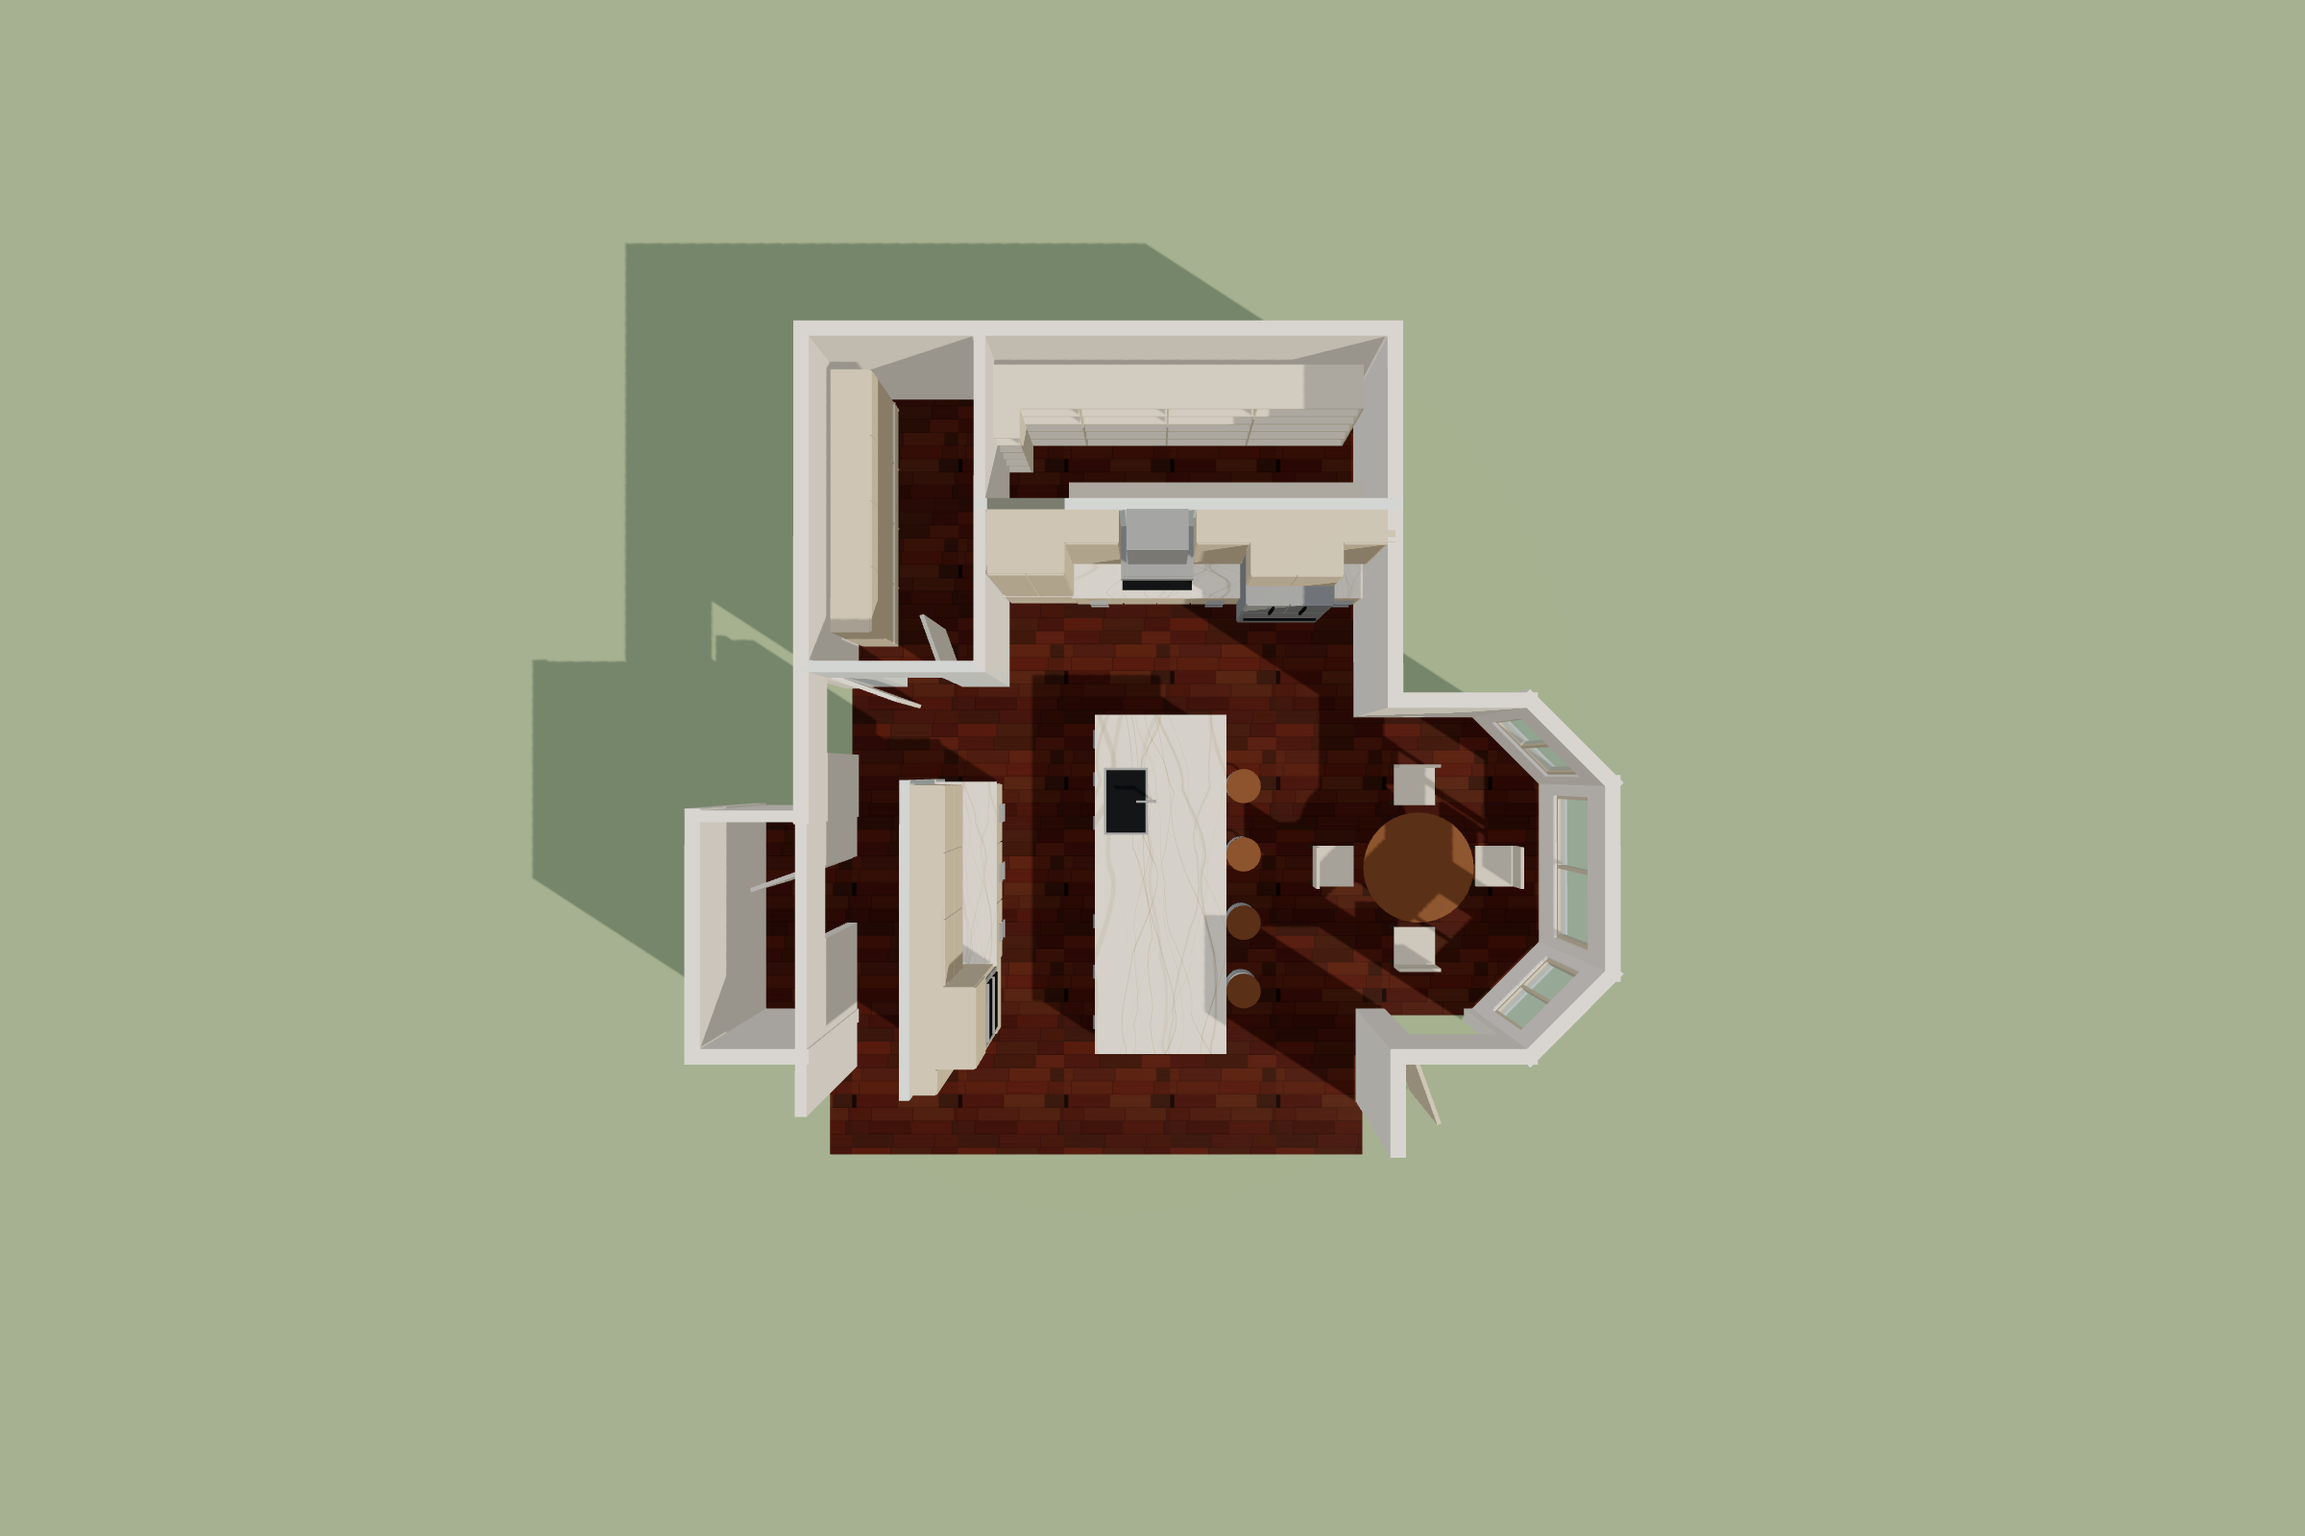
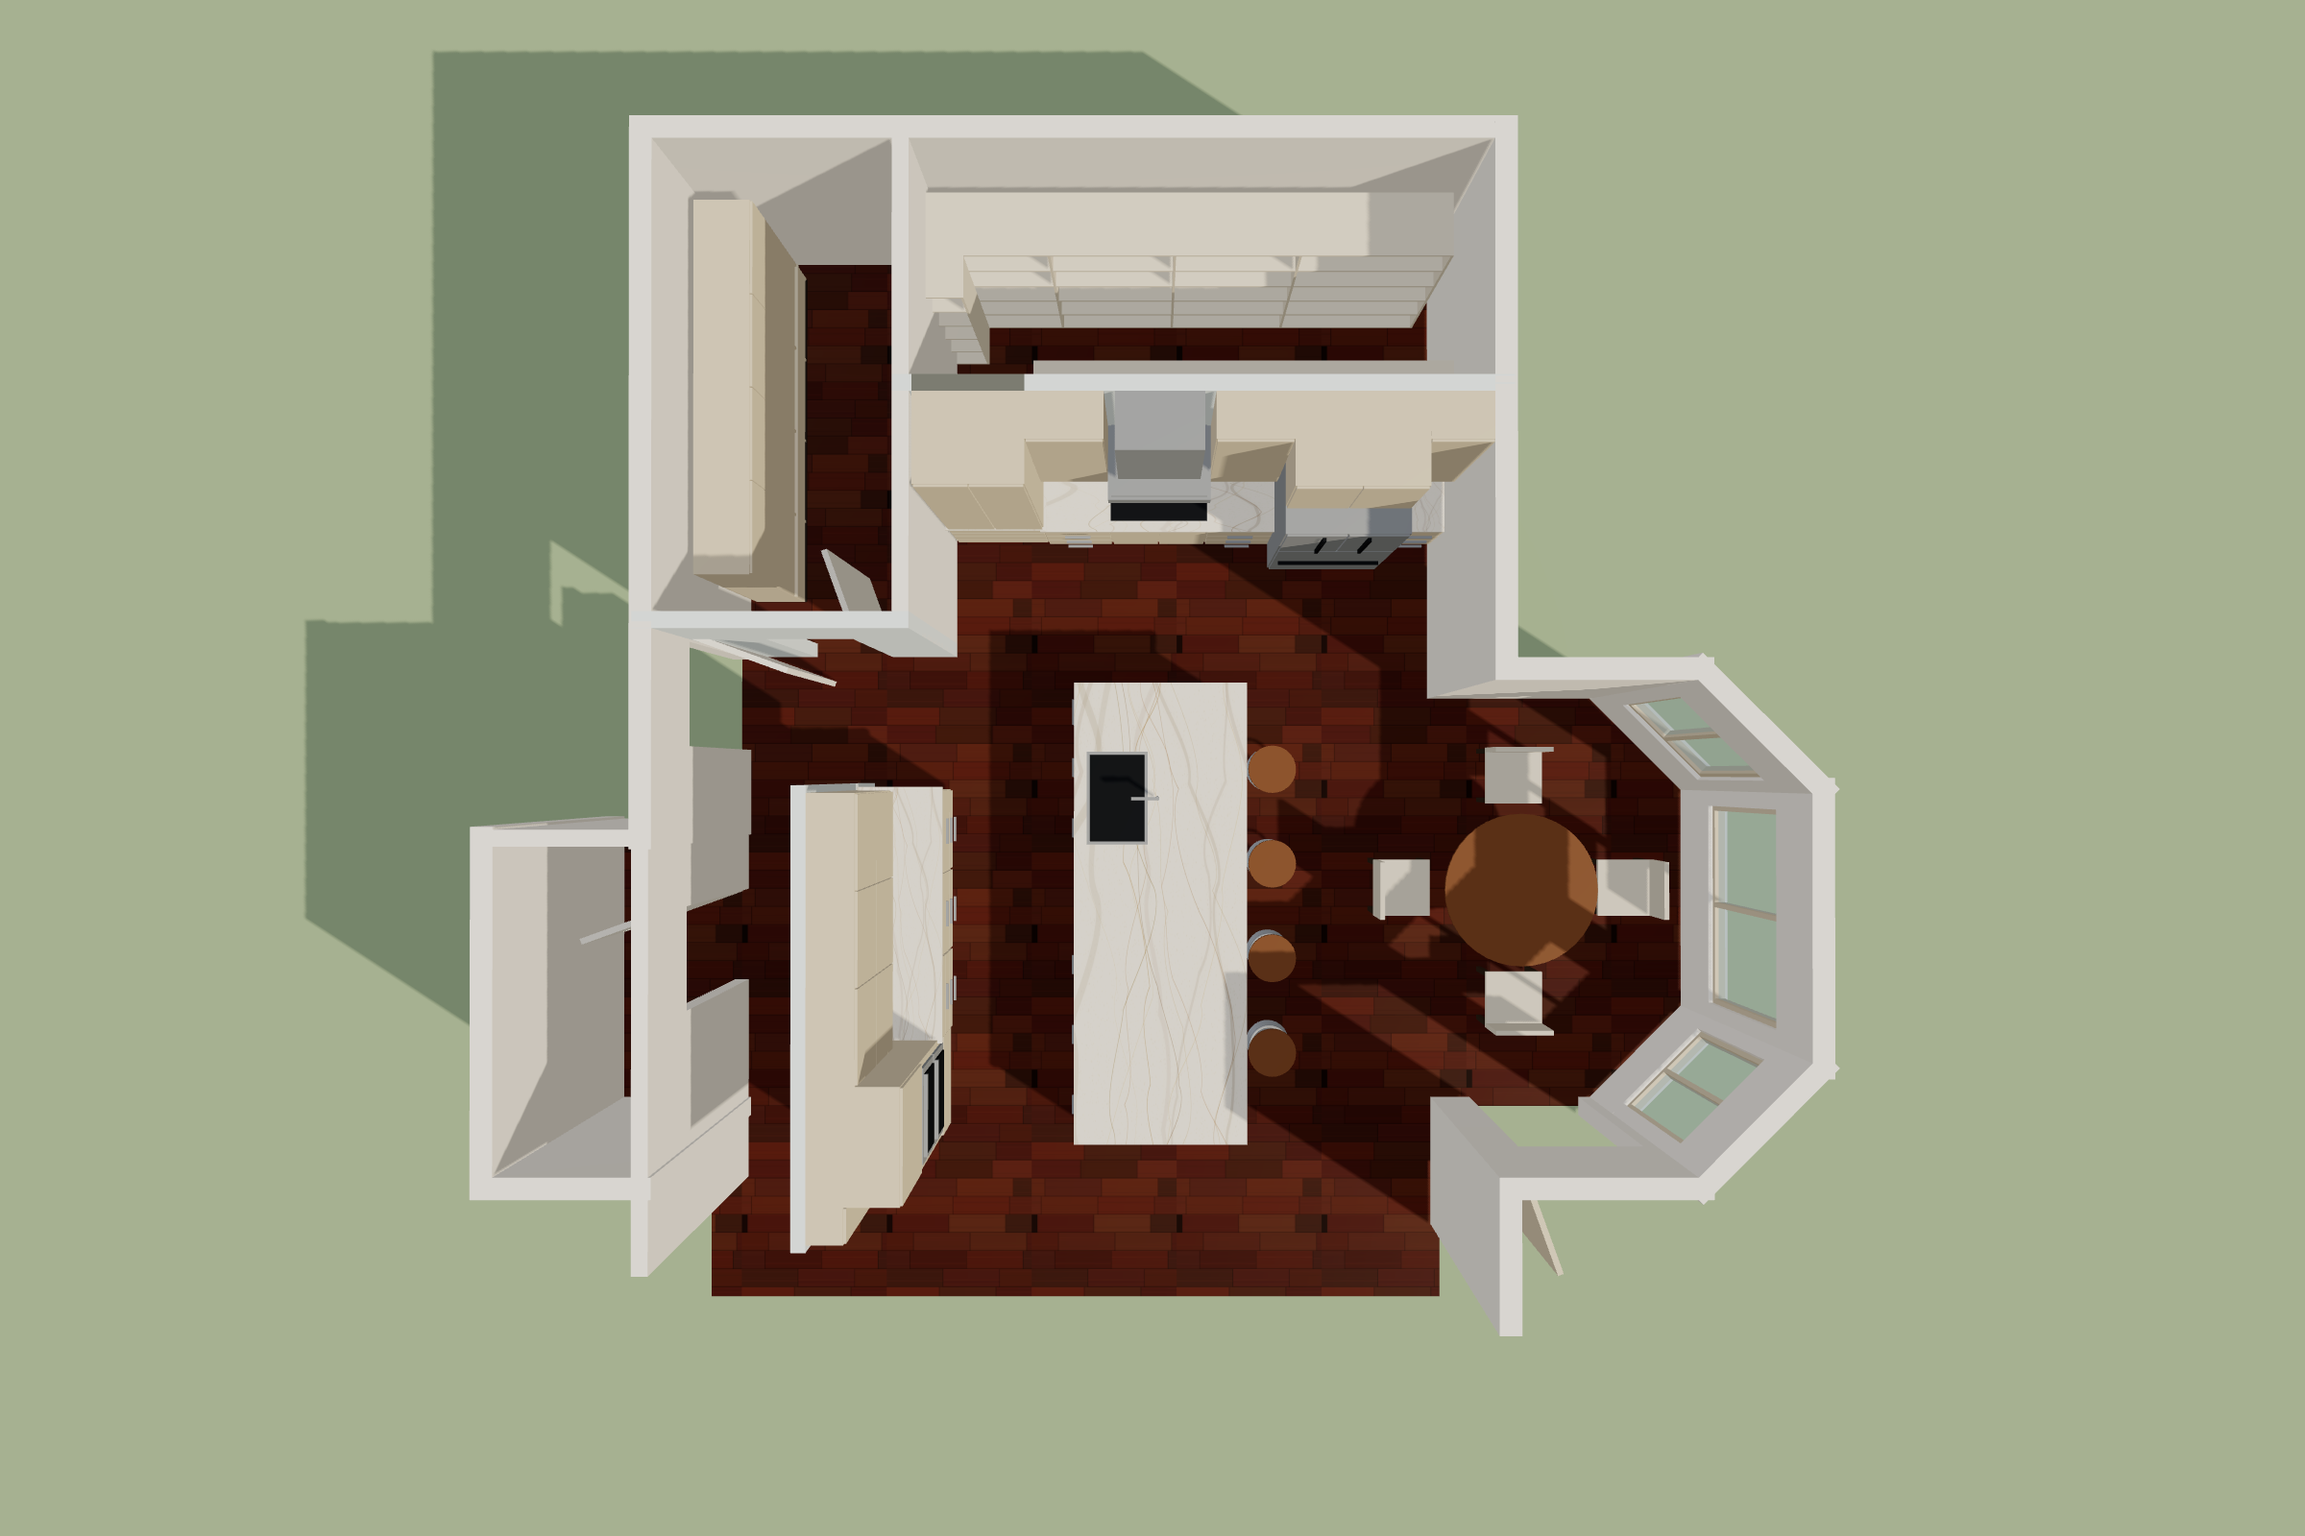
Add Measurements toggle with dimension lines; true up aisles to plan (48/43.5/40)

diff --git a/index.html b/index.html
@@ -37,6 +37,7 @@ button.on{background:var(--accent);color:#fff;border-color:var(--accent)}
   <button data-v="pantry">Inside pantry</button>
   <button data-v="plan">Plan view</button>
   <button id="lbl" class="on">Labels</button>
+  <button id="dim">Measurements</button>
 </div>
 <div class="foot">Modeled in inches from the Revision 23 plan. Dark cherry floors, quartzite counters, stainless appliances, light natural cabinets, full-height stainless vent. Bay windows, door swings and cabinet door splits are assumptions; dimensions still need field verification.</div>
 
@@ -212,7 +213,7 @@ wall(-42,189,0,189,T);              // bath north
 wall(-42,189,-42,282,TX);           // bath west exterior
 wall(-42,282,0,282,TX);             // bath south
 wallDoor(0,189,0,303,T,H,21,51);    // bath east with door z 210..240
-wall(40,177,40,297,4,H,M.wallNew);  // floating wall, 10' long, full height, open both ends
+wall(42,177,42,297,4,H,M.wallNew);  // floating wall, 10' long, full height, open both ends (40" hall to its west)
 
 // doors (leaf hinged at hx,hz; dir = open-leaf direction in plan)
 door(50,131,25,[-0.34,-0.94]);          // mudroom door, swings into mudroom
@@ -256,32 +257,34 @@ box(185,186,52,80,104.1,105.2,M.dark); box(198,199,52,80,104.1,105.2,M.dark); bo
 box(174,210,84,120,70,95.5,M.white); fronts(174,210,70,95.5,84,120,'S',2,1,M.white);
 
 // ---------- floating wall, east face: 78" counter + uppers, 32" oven tower, 10" end filler ----------
-baseRun(42,67.5,177,255,M.teal);
-fronts(42,67.5,177,203,4,34.5,'E',1,3,M.teal); fronts(42,67.5,203,229,4,34.5,'E',1,3,M.teal); fronts(42,67.5,229,255,4,34.5,'E',1,3,M.teal);
-[190,216,242].forEach(z=>[8,19,30].forEach(y=>handle(68.25,y,z,'E',8)));
-box(42,42.6,36,54,177,255,M.quartz);
-box(42,55,54,120,177,255,M.white); fronts(42,55,177,255,54,120,'E',3,2,M.white);
-box(42,67,0,120,255,287,M.teal); box(42,67,0,4,255,287,M.kick);
-fronts(42,67,255,287,4,26,'E',1,1,M.teal);
-box(67,67.75,27,51,257,285,M.steel); box(67.75,68.3,29,49,259,283,M.dark); box(67.75,68.9,48.5,49.7,259,283,M.steel);   // upper oven + handle
-box(67,67.75,53,77,257,285,M.steel); box(67.75,68.3,55,75,259,283,M.dark); box(67.75,68.9,74.5,75.7,259,283,M.steel);   // lower oven + handle
-fronts(42,67,255,287,79,120,'E',1,1,M.teal);
-box(42,52,0,120,287,297,M.teal); fronts(42,52,287,297,4,120,'E',1,1,M.teal);
+baseRun(44,69.5,177,255,M.teal);
+fronts(44,69.5,177,203,4,34.5,'E',1,3,M.teal); fronts(44,69.5,203,229,4,34.5,'E',1,3,M.teal); fronts(44,69.5,229,255,4,34.5,'E',1,3,M.teal);
+[190,216,242].forEach(z=>[8,19,30].forEach(y=>handle(70.25,y,z,'E',8)));
+box(44,44.6,36,54,177,255,M.quartz);
+box(44,57,54,120,177,255,M.white); fronts(44,57,177,255,54,120,'E',3,2,M.white);
+box(44,69,0,120,255,287,M.teal); box(44,69,0,4,255,287,M.kick);
+fronts(44,69,255,287,4,26,'E',1,1,M.teal);
+box(69,69.75,27,51,257,285,M.steel); box(69.75,70.3,29,49,259,283,M.dark); box(69.75,70.9,48.5,49.7,259,283,M.steel);   // upper oven + handle
+box(69,69.75,53,77,257,285,M.steel); box(69.75,70.3,55,75,259,283,M.dark); box(69.75,70.9,74.5,75.7,259,283,M.steel);   // lower oven + handle
+fronts(44,69,255,287,79,120,'E',1,1,M.teal);
+box(44,54,0,120,287,297,M.teal); fronts(44,54,287,297,4,120,'E',1,1,M.teal);
 
 // ---------- island 54" x 144" ----------
-// carcass is 44" deep so the 54" top overhangs 11.5" on the east (table) side for seating
-box(115.5,153.5,0,4,151.5,289.5,M.kick);
-box(112.5,156.5,4,34.5,148.5,292.5,M.teal);
-box(111,168,34.5,36,147,294,M.quartz);
-box(156.5,157,4,34.5,148.5,292.5,M.teal);   // finished back panel
-fronts(112.5,136.5,148.5,166.5,4,34.5,'W',1,3,M.teal);      // 18" drawers
-fronts(112.5,136.5,166.5,202.5,4,34.5,'W',2,1,M.teal);      // 36" sink base
-box(111.75,112.5,6,32.5,203,226,M.steel); box(111.1,111.75,30,32,204,225,M.dark); box(111.1,111.6,8,9.2,206,223,M.steel); // 24" stainless DW + bar handle
-fronts(112.5,136.5,226.5,292.5,4,34.5,'W',3,1,M.teal);      // 66" storage
-[[157.5,8],[157.5,19],[157.5,30]].forEach(([z,y])=>handle(111.75,y,z,'W',8));
-[175,194,237,259,281].forEach(z=>handle(111.75,30,z,'W',6));
-box(115,134,35.4,36.3,170,199,M.steel); box(116,133,35.6,36.5,171,198,M.dark);   // sink
-cyl(0.6,36,48,137,184.5,M.steel); box(129,137.5,47.4,48.6,184,185,M.steel);     // faucet
+// island west face at x=113 (43.5" aisle to the oven-wall counter), north end at z=143.5 (48" aisle to the cooktop counter)
+// carcass is 42" deep so the 54" top overhangs 10.5" on the east (table) side for seating
+const IX=113, IZ=143.5;
+box(IX+3,IX+39,0,4,IZ+3,IZ+141,M.kick);
+box(IX,IX+42,4,34.5,IZ,IZ+144,M.teal);
+box(IX-1.5,IX+52.5,34.5,36,IZ,IZ+144,M.quartz);   // 54" x 144" top
+box(IX+42,IX+42.5,4,34.5,IZ,IZ+144,M.teal);   // finished back panel
+fronts(IX,IX+24,IZ,IZ+18,4,34.5,'W',1,3,M.teal);        // 18" drawers
+fronts(IX,IX+24,IZ+18,IZ+54,4,34.5,'W',2,1,M.teal);     // 36" sink base
+box(IX-0.75,IX,6,32.5,IZ+54.5,IZ+77.5,M.steel); box(IX-1.4,IX-0.75,30,32,IZ+55.5,IZ+76.5,M.dark); box(IX-1.4,IX-0.9,8,9.2,IZ+57.5,IZ+74.5,M.steel); // 24" stainless DW + bar handle
+fronts(IX,IX+24,IZ+78,IZ+144,4,34.5,'W',3,1,M.teal);    // 66" storage
+[8,19,30].forEach(y=>handle(IX-0.75,y,IZ+9,'W',8));
+[IZ+26.5,IZ+45.5,IZ+88.5,IZ+110.5,IZ+132.5].forEach(z=>handle(IX-0.75,30,z,'W',6));
+box(IX+2.5,IX+21.5,35.4,36.3,IZ+21.5,IZ+50.5,M.steel); box(IX+3.5,IX+20.5,35.6,36.5,IZ+22.5,IZ+49.5,M.dark);   // sink
+cyl(0.6,36,48,IX+24.5,IZ+36,M.steel); box(IX+16.5,IX+25,47.4,48.6,IZ+35.5,IZ+36.5,M.steel);     // faucet
 
 // ---------- bar stools on the island's east (table) side, counter height ----------
 function stool(cx,cz){
@@ -290,10 +293,10 @@ function stool(cx,cz){
   cyl(7,0,1.5,cx,cz,M.steel,5.5);                   // base
   const ring=new THREE.Mesh(new THREE.TorusGeometry(6,0.5,10,36),M.steel); ring.rotation.x=Math.PI/2; ring.position.set(cx,8,cz); ring.castShadow=true; scene.add(ring);
 }
-[178,208,238,268].forEach(z=>stool(176,z));
+[IZ+27,IZ+57,IZ+87,IZ+117].forEach(z=>stool(IX+61,z));
 
 // ---------- table 48" round, 4 chairs ----------
-const TC=[252,213.5];
+const TC=[252,IZ+72-7];   // table center 7" north of island center, per plan
 cyl(24,29.5,31,TC[0],TC[1],M.tableTop); cyl(3,1,29.5,TC[0],TC[1],M.chairLeg); cyl(12,0,1.2,TC[0],TC[1],M.chairLeg,8);
 function chair(cx,cz,a){
   const g=new THREE.Group(); g.position.set(cx,0,cz); g.rotation.y=a; scene.add(g);
@@ -306,19 +309,48 @@ chair(TC[0],TC[1]-36,0); chair(TC[0],TC[1]+36,Math.PI); chair(TC[0]+36,TC[1],-Ma
 
 // ---------- labels ----------
 const labels=new THREE.Group(); scene.add(labels);
-function label(text,x,y,z,s=1){
+const dims=new THREE.Group(); dims.visible=false; scene.add(dims);
+function label(text,x,y,z,s=1,group=labels,bg='rgba(36,52,65,.86)'){
   const c=document.createElement('canvas'); const ctx=c.getContext('2d');
   ctx.font='600 40px -apple-system,Helvetica,Arial,sans-serif'; const w=Math.ceil(ctx.measureText(text).width)+44; c.width=w; c.height=68;
-  ctx.font='600 40px -apple-system,Helvetica,Arial,sans-serif'; ctx.fillStyle='rgba(36,52,65,.86)';
+  ctx.font='600 40px -apple-system,Helvetica,Arial,sans-serif'; ctx.fillStyle=bg;
   ctx.beginPath(); ctx.roundRect(0,0,w,68,34); ctx.fill(); ctx.fillStyle='#fff'; ctx.textBaseline='middle'; ctx.fillText(text,22,36);
   const tex=new THREE.CanvasTexture(c); tex.colorSpace=THREE.SRGBColorSpace;
   const sp=new THREE.Sprite(new THREE.SpriteMaterial({map:tex,depthTest:false,transparent:true,sizeAttenuation:false})); sp.renderOrder=999;
-  sp.userData.base=[w/68*0.052*s,0.052*s]; sp.position.set(x,y,z); labels.add(sp);
+  sp.userData.base=[w/68*0.052*s,0.052*s]; sp.position.set(x,y,z); group.add(sp);
 }
-function fitLabels(){ labels.children.forEach(sp=>{const [bw,bh]=sp.userData.base; sp.scale.set(bw/camera.aspect,bh,1);}); }
+function fitLabels(){ [...labels.children,...dims.children].forEach(sp=>{ if(!sp.userData.base) return; const [bw,bh]=sp.userData.base; sp.scale.set(bw/camera.aspect,bh,1);}); }
+
+// ---------- measurements: dimension lines with end ticks, text computed from the model ----------
+const M_dim=new THREE.MeshBasicMaterial({color:0xc0392b});
+function fmt(n){ n=Math.round(n*2)/2; const s=(n%1?n.toFixed(1):n)+'″'; return n>=48? `${s} (${Math.floor(n/12)}′${n%12?(n%12)+'″':''})` : s; }
+function dim(x0,z0,x1,z1,y,note){
+  const dx=x1-x0, dz=z1-z0, L=Math.hypot(dx,dz);
+  const g=new THREE.Group(); g.position.set(x0,y,z0); g.rotation.y=Math.atan2(-dz,dx); dims.add(g);
+  const bar=new THREE.Mesh(new THREE.BoxGeometry(L,0.7,0.7),M_dim); bar.position.x=L/2; g.add(bar);
+  for(const u of [0,L]){ const t=new THREE.Mesh(new THREE.BoxGeometry(0.7,0.7,8),M_dim); t.position.set(u,0,0); g.add(t);
+    const v=new THREE.Mesh(new THREE.BoxGeometry(0.7,8,0.7),M_dim); v.position.set(u,0,0); g.add(v); }
+  label((note?note+': ':'')+fmt(L),(x0+x1)/2,y+4,(z0+z1)/2,0.72,dims,'rgba(192,57,43,.9)');
+}
+// walkways (measured face to face in the model)
+dim(122,95.5,122,IZ,40,'Counter aisle');                 // cooktop counter front to island
+dim(69.5,196,IX,196,40,'Oven-wall aisle');               // oven-wall counter front to island
+dim(0,165,40,165,40,'Hall');                             // hall width west of floating wall
+dim(IX+52.5,TC[1],TC[0]-24,TC[1],40,'Island to table');  // island top edge to table edge
+dim(TC[0]+24,TC[1],314,TC[1],40,'Table to bay wall');    // table edge to bay window wall
+dim(192,103.5,192,IZ,40,'Fridge to island');             // fridge door face to island
+dim(IX+52.5,160,230,160,40,'Island to east wall');       // island top edge to exterior wall
+// fixtures
+dim(IX-1.5,IZ-16,IX+52.5,IZ-16,40,'Island');
+dim(IX-8,IZ,IX-8,IZ+144,40);
+dim(42,177,42,297,124,'Floating wall');
+dim(TC[0]-24,TC[1]-30,TC[0]+24,TC[1]-30,32,'Table');
+dim(40,318,230,318,2,'Open to family room');
+dim(0,100,68,100,124,'Mudroom');
+dim(-42,235,0,235,40,'Bath');
 label('MUDROOM',34,100,70); label('PANTRY 13′6″ × 5′6″',150,100,40); label('BATH',-21,100,235); label('HALL',20,100,160);
-label('ISLAND 54″ × 144″',139,48,222); label('FLOATING WALL 10′',40,128,237); label('DOUBLE OVENS',70,100,271);
-label('36″ FRIDGE',192,96,92); label('30″ COOKTOP',138,80,86); label('48″ ROUND',252,44,213.5); label('BAY',298,100,213);
+label('ISLAND 54″ × 144″',IX+27,48,IZ+72); label('FLOATING WALL 10′',42,128,237); label('DOUBLE OVENS',72,100,271);
+label('36″ FRIDGE',192,96,92); label('30″ COOKTOP',138,80,86); label('48″ ROUND',TC[0],44,TC[1]); label('BAY',298,100,213);
 label('OPEN TO FAMILY ROOM',115,24,335); label('CONCEALED PANTRY DOOR',87,66,100,0.8);
 
 // ---------- camera control ----------
@@ -335,7 +367,7 @@ const views={
   cooktop:{p:[150,62,262],t:[158,52,72]},
   ovens:{p:[180,60,300],t:[50,48,250]},
   pantry:{p:[224,62,46],t:[86,46,28]},
-  plan:{p:[136,820,172],t:[136,0,170]},
+  plan:{p:[136,600,172],t:[136,0,170]},
 };
 function setView(v){
   const p=new THREE.Vector3(...v.p), t=new THREE.Vector3(...v.t), d=p.clone().sub(t);
@@ -344,6 +376,8 @@ function setView(v){
 const btns=[...document.querySelectorAll('button[data-v]')];
 btns.forEach(b=>b.addEventListener('click',()=>{btns.forEach(x=>x.classList.toggle('on',x===b)); setView(views[b.dataset.v]);}));
 document.getElementById('lbl').addEventListener('click',e=>{labels.visible=!labels.visible; e.currentTarget.classList.toggle('on',labels.visible);});
+document.getElementById('dim').addEventListener('click',e=>{dims.visible=!dims.visible; e.currentTarget.classList.toggle('on',dims.visible);
+  if(dims.visible&&labels.visible){labels.visible=false; document.getElementById('lbl').classList.remove('on');}});
 
 const pts=new Map(); let last=null, pinch=null;
 const pdist=()=>{const a=[...pts.values()]; return Math.hypot(a[0][0]-a[1][0],a[0][1]-a[1][1]);};
@@ -366,6 +400,7 @@ function resize(){ const w=canvas.clientWidth||innerWidth, h=canvas.clientHeight
 addEventListener('resize',resize); resize(); setView(views.overview);
 renderer.setAnimationLoop(()=>{ applyCam(); renderer.render(scene,camera); });
 // offscreen still at any size (used to export renders)
+window.__setLayers=(l,d)=>{labels.visible=l; dims.visible=d;};
 window.__render3d=(view,w,h)=>{ if(view) setView(views[view]); const pr=renderer.getPixelRatio(); renderer.setPixelRatio(1); renderer.setSize(w,h,false); camera.aspect=w/h; camera.updateProjectionMatrix(); fitLabels(); applyCam(); renderer.render(scene,camera); const url=renderer.domElement.toDataURL('image/png'); renderer.setPixelRatio(pr); resize(); return url; };
 </script>
 </body></html>

diff --git a/README.md b/README.md
@@ -3,7 +3,7 @@
 Interactive 3D concept model of the Jackson kitchen remodel, Revision 23 (back-wall refrigerator), built in inches from the plan dimensions.
 
 - `index.html` – the interactive model (three.js). Open it in a browser: drag to orbit, scroll to zoom, right-drag to pan. Preset views and a labels toggle are in the top bar.
-- `jackson-rev23-*.png` – 2400x1600 rendered stills of each preset view.
+- `jackson-rev23-*.png` – 2400x1600 rendered stills of each preset view; `-labeled` and `-measurements` variants show the room labels and the dimension overlay.
 
 Finishes shown: dark cherry floors, quartzite counters, stainless appliances, light natural cabinets, full-height stainless vent, bar stools on the island's table side.
 
